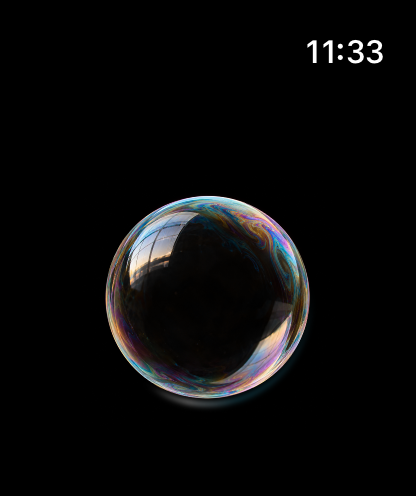
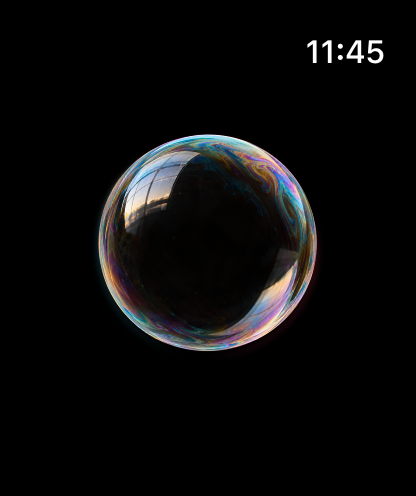
fix: center the bubble on the full Watch display

Changed region(s): [[0.2188, 0.2722, 0.7812, 0.8468], [0.7812, 0.0605, 0.9375, 0.1512]]

diff --git a/chime Watch App/Views/SoapBubbleView.swift b/chime Watch App/Views/SoapBubbleView.swift
@@ -64,7 +64,6 @@ struct SoapBubbleView: View {
           .animation(paused ? nil : .easeInOut(duration: 0.35), value: microphoneActive)
           .rotation3DEffect(.degrees(ripple * 5), axis: (x: 1, y: 0.5, z: 0), perspective: 0.15)
           .rotationEffect(.degrees(sin(time * 0.7) * strength * 5))
-          .offset(y: sin(time * 1.2) * strength * 3)
           .saturation(activity == .muted ? 0.3 : 1)
           .brightness(isLuminanceReduced ? -0.15 : 0)
 

diff --git a/chime Watch App/Views/ContentView.swift b/chime Watch App/Views/ContentView.swift
@@ -10,7 +10,8 @@ struct ContentView: View {
       MemoryView(store: sessionManager.memoryStore)
         .tag(0)
       VoiceControlView(isVisible: page == 1)
-        .ignoresSafeArea(.container, edges: .bottom)
+        // Center against the entire display, including the system clock inset.
+        .ignoresSafeArea(.container)
         .tag(1)
       SettingsView()
         .tag(2)
